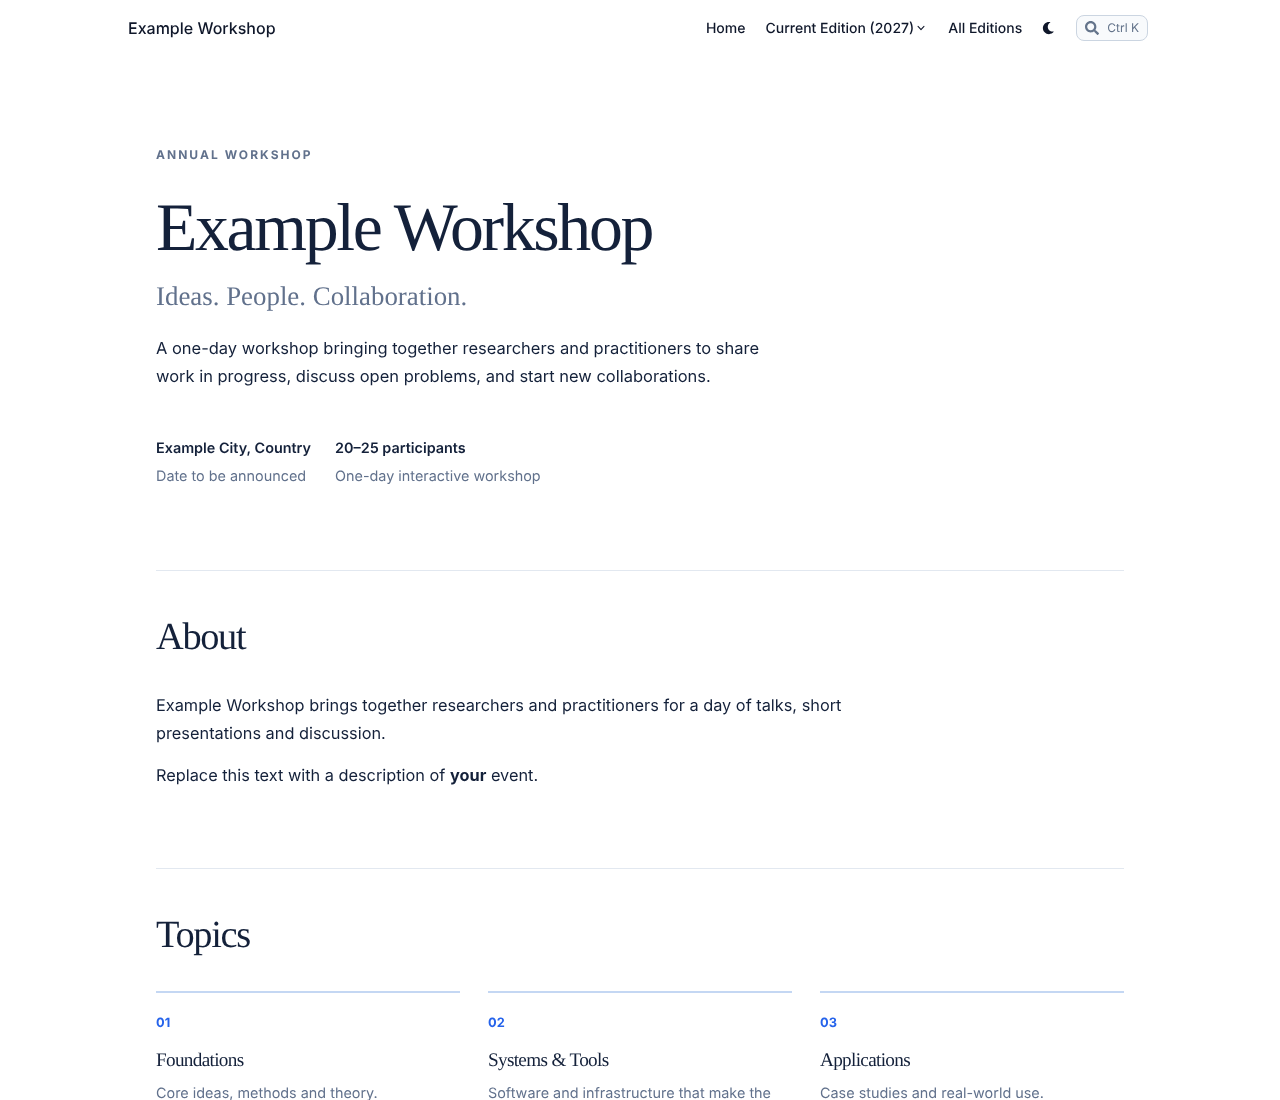
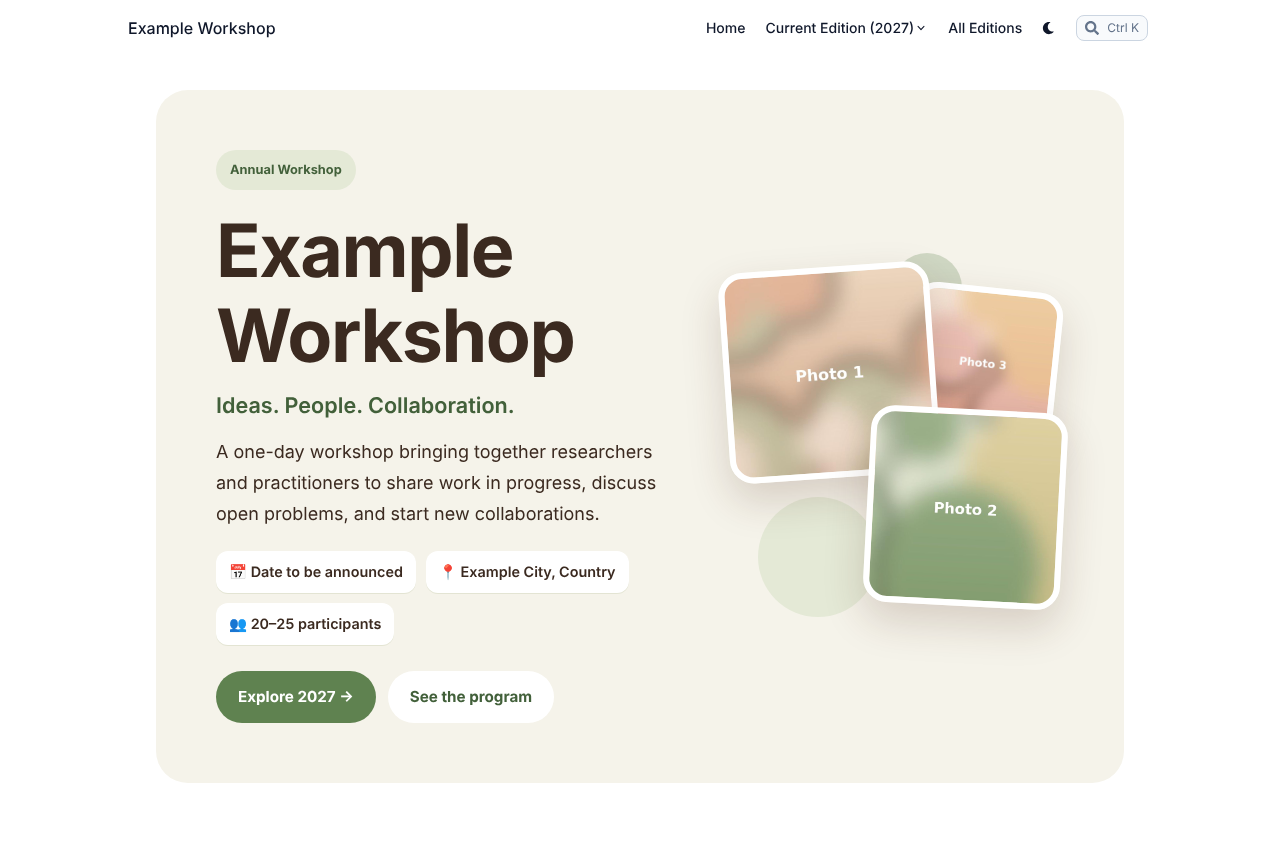
docs: update README for warm design and colour palette

diff --git a/README.md b/README.md
@@ -10,15 +10,17 @@ Everything you change lives in a few YAML files: no HTML needed. Push to GitHub 
 
 ## Features
 
-- **Homepage from YAML:** name, tagline, description and any number of sections (text and/or cards)
+- **Warm, friendly design** with a **colour palette you choose** in one line (`sage`, `terracotta` or `berry`, or your own colour)
+- **Homepage from YAML:** name, tagline, description, a photo collage and any number of sections (text and/or cards)
 - **Editions:** one page per year, plus an archive of all current, upcoming and past editions
 - **Page switches:** turn Speakers, Program, Participation, Organizers, Resources and Gallery on or off in one list
+- **Program timeline**, speaker and organizer cards, and info cards for registration, venue and contact
 - **Photo gallery:** drop photos into a folder; thumbnails are generated automatically
 - **Automatic publishing:** a GitHub Actions workflow deploys to GitHub Pages on every push to `main`
 - **Docker image:** a multi-stage Dockerfile (Hugo build, served by nginx) for hosting anywhere
 - Dark mode, search and a responsive layout, provided by Blowfish
 
-![All Editions page](docs/images/screenshot-editions.png)
+![Edition overview and program](docs/images/screenshot-pages.png)
 
 ## Quick start (about 5 minutes)
 
@@ -35,6 +37,7 @@ Everything you change lives in a few YAML files: no HTML needed. Push to GitHub 
 |---|---|
 | Workshop name | `config/_default/languages.en.toml` → `title` |
 | Homepage text and sections | `data/site.yaml` |
+| Colours | `data/site.yaml` → `palette:` (and optional `accent:`) |
 | Which pages each edition has | `data/site.yaml` → `pages:` (set `show: false` to hide one) |
 | Years, locations, dates | `data/editions.yaml` |
 | Speakers | `data/speakers/<year>.yaml` |
@@ -63,6 +66,15 @@ sections:
 
 Delete a section to remove it from the homepage.
 
+### Colours
+
+Pick a palette in `data/site.yaml`; it is applied to every page, including the menu and dark mode:
+
+```yaml
+palette: sage          # sage | terracotta | berry
+# accent: "#2563eb"    # optional: your own main colour instead
+```
+
 ### Images
 
 Put images in `static/images/...` and refer to them **without a leading slash**:
@@ -72,6 +84,8 @@ image: "images/speakers/2027/jane.jpg"   # works locally and on GitHub Pages
 ```
 
 Speakers and organizers without an image show their initial instead.
+
+The homepage collage shows the first three photos of the current edition's gallery (`content/<year>/gallery/`), or the edition banner if there are none yet.
 
 ## Adding next year's edition
 
@@ -83,7 +97,7 @@ Previous editions stay online and appear under **All Editions**.
 
 ## Run locally
 
-You need [Hugo extended](https://gohugo.io/installation/) (0.169 or newer) and git.
+You need [Hugo extended](https://gohugo.io/installation/) (0.169 or newer; the GitHub workflow uses 0.169.0) and git.
 
 ```bash
 git clone --recurse-submodules https://github.com/<you>/<your-repository>.git
@@ -115,6 +129,7 @@ config/_default/     site settings (name, menus, theme options)
 content/<year>/      pages of each edition
 data/                all editable content (YAML)
 layouts/             templates; normally no need to edit
+assets/css/          shared styles (cards, timeline, buttons)
 static/images/       images
 themes/blowfish/     the theme (git submodule; do not edit)
 .github/workflows/   automatic publishing to GitHub Pages
